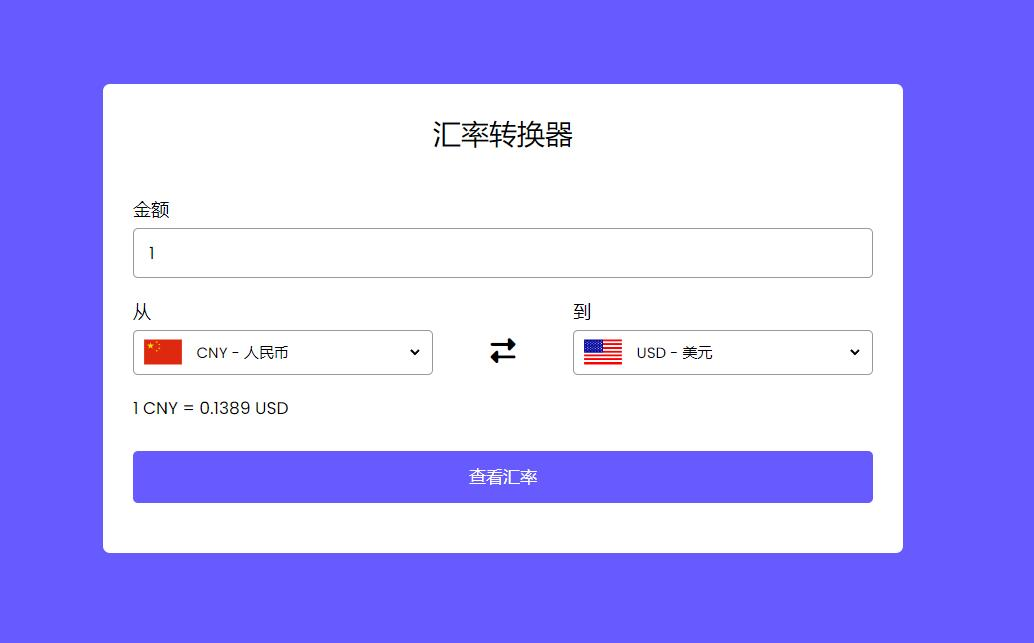
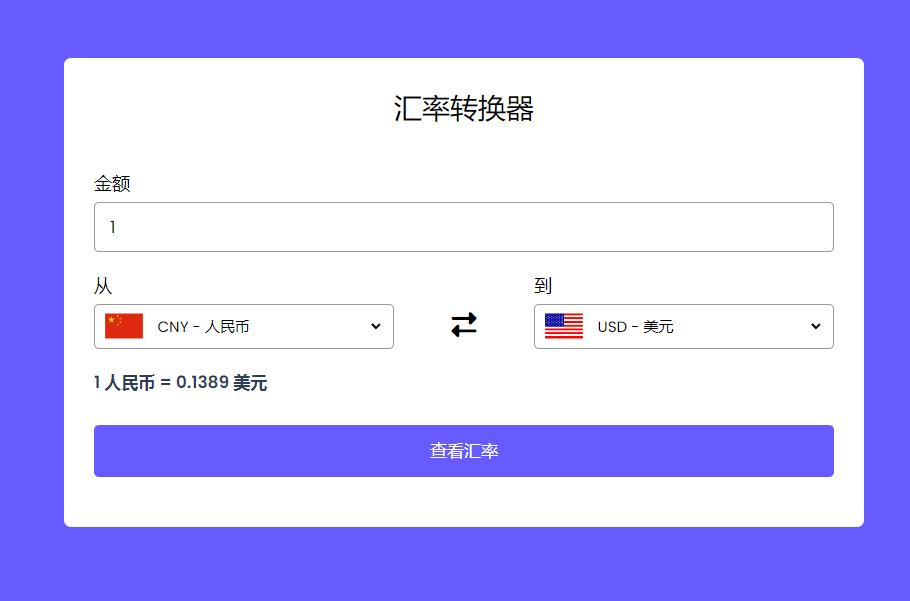
优化了UI显示代码

Changed region(s): [[0.0615, 0.0899, 0.9538, 0.8985], [0.4615, 0.5092, 0.5231, 0.5691]]

diff --git a/CurrencyConverter/script.js b/CurrencyConverter/script.js
@@ -55,7 +55,9 @@ function getExchangeRate() {
     .then((result) => {
       let exchangeRate = result.conversion_rates[toCurrency.value];
       let totalExchangeRate = (amountVal * exchangeRate).toFixed(4);
-      exchangeRateTxt.innerText = `${amountVal} ${fromCurrency.value} = ${totalExchangeRate} ${toCurrency.value}`;
+      let fromCurrencyDesc = getCurrencyDescription(fromCurrency.value);
+      let toCurrencyDesc = getCurrencyDescription(toCurrency.value);
+      exchangeRateTxt.innerHTML = `<span>${amountVal} ${fromCurrencyDesc} = ${totalExchangeRate} ${toCurrencyDesc}</span>`;
     })
     .catch(() => {
       exchangeRateTxt.innerText = "汇率换算失败了...";
@@ -72,6 +74,14 @@ function loadFlag(element) {
   }
 
   getExchangeRate();
+}
+
+function getCurrencyDescription(flag) {
+  for (code in country_list) {
+    if (code == flag) {
+      return country_list[code];
+    }
+  }
 }
 
 window.addEventListener("load", (e) => {

diff --git a/CurrencyConverter/style.css b/CurrencyConverter/style.css
@@ -109,6 +109,11 @@ form .exchange-rate{
     margin:20px 0 30px;
 }
 
+.exchange-rate span{
+    font-weight: 600;
+    color:rgb(46, 60, 87);
+}
+
 form button{
     height: 52px;
     color:#fff;
